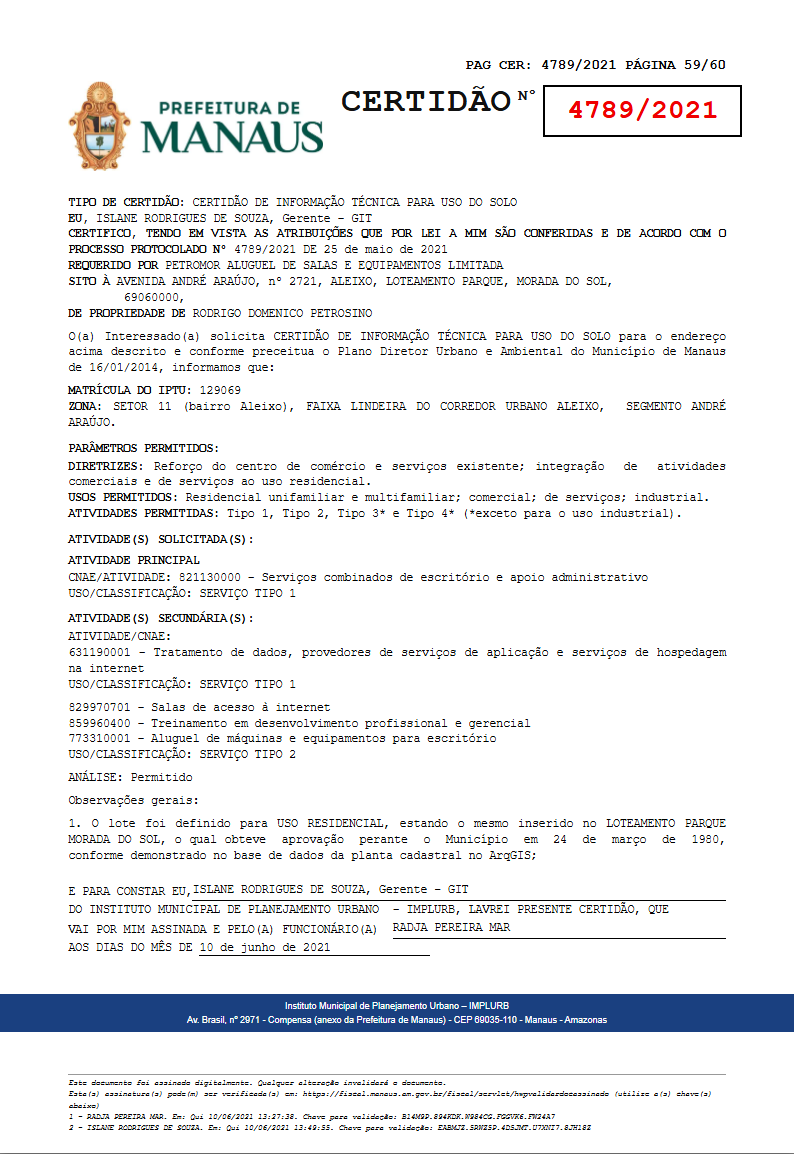
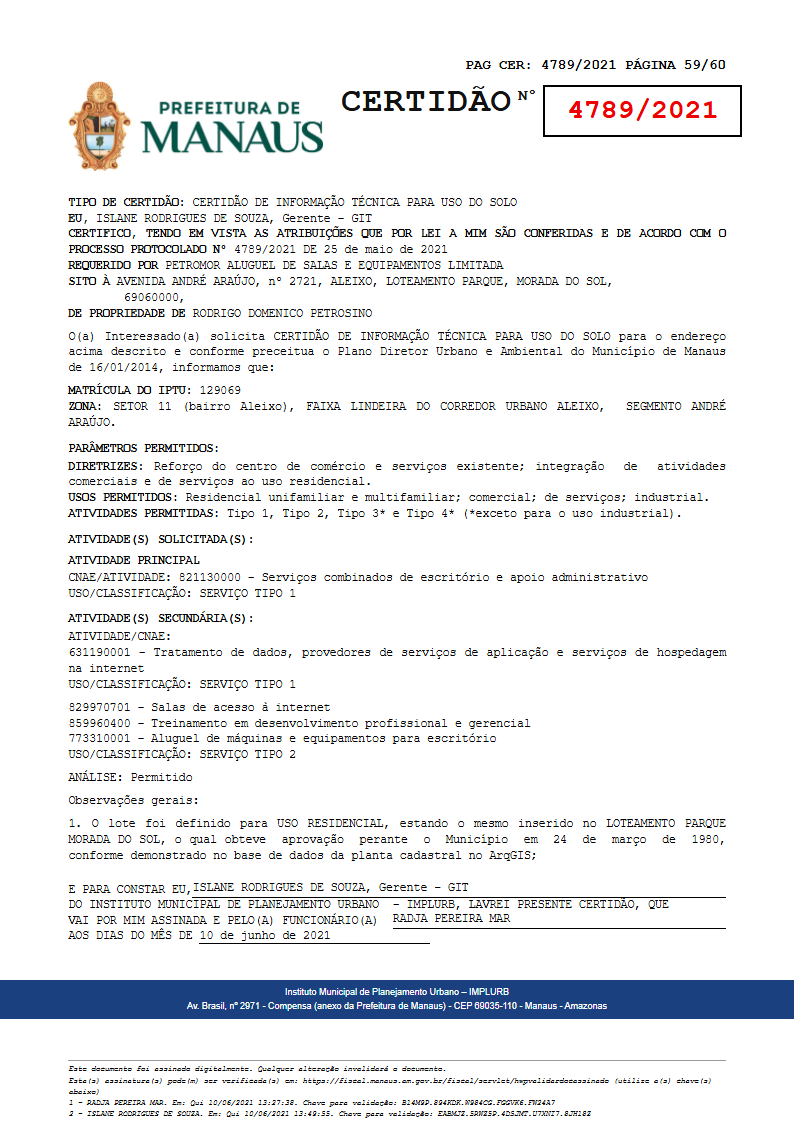
auto-sync: 2026-04-27 10:27

diff --git a/dados/certidao-template.html b/dados/certidao-template.html
@@ -114,7 +114,7 @@
 
   .assinatura {
     margin-top: 18px;
-    line-height: 1.55;
+    line-height: 1.25;
     font-family: "Courier New", Courier, monospace;
     font-size: 11.5px;
   }

diff --git a/dados/build-html.py b/dados/build-html.py
@@ -119,7 +119,7 @@ html = """<!DOCTYPE html>
 
   .assinatura {
     margin-top: 18px;
-    line-height: 1.55;
+    line-height: 1.25;
     font-family: "Courier New", Courier, monospace;
     font-size: 11.5px;
   }
